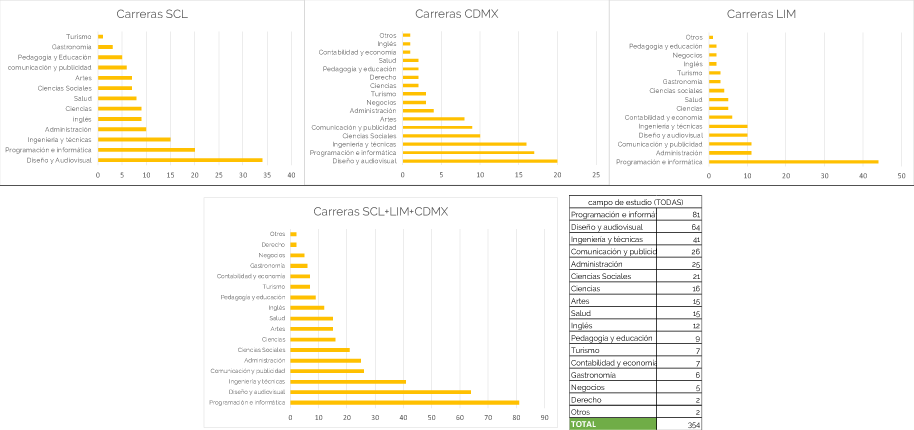
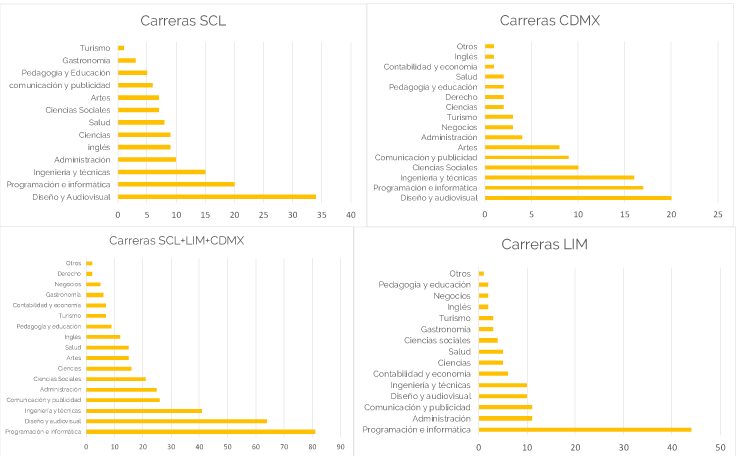
Updates assets/areas-de-estudio-sel-20172.png
Auto commit by GitBook Editor

diff --git a/chapter1.md b/chapter1.md
@@ -6,7 +6,9 @@ Aquí encontrarás la información que hemos obtenido más recientemente. Si tie
 
 **INFORMACIÓN OBTENIDA DE POSTULANTES ADMITIDAS AL BOOTCAMP 20172 SCL, CDMX, LIM.**
 
-![](/assets/resumen-perfil-alumnas.png)Como podrás notar, a grandes rasgos y en resumen, nuestras alumnas tienen entre los 27 años, han accedido a educación superior pero esta no les ha permitido acceder a buenos trabajos. Nuestras alumnas llegan a Laboratoria en busca de un cambio para su vida profesional. Esto puede servirte como base para entender al público al cual nos dirigimos. ![](/assets/areas-de-estudio-sel-20172.png)
+![](/assets/resumen-perfil-alumnas.png)Como podrás notar, a grandes rasgos y en resumen, nuestras alumnas tienen entre los 27 años, han accedido a educación superior pero esta no les ha permitido acceder a buenos trabajos. Nuestras alumnas llegan a Laboratoria en busca de un cambio para su vida profesional. Esto puede servirte como base para entender al público al cual nos dirigimos.
+
+![](/assets/areas-de-estudio-sel-20172.png)
 
 A continuación podrás ver el uso de Redes Sociales y Medios Tradicionales de Comunicación. Esto te servirá como guía para realizar acciones locales para atraer a las mejores postulantes.![](/assets/rrss-y-medios-de-comPORsede.png)[En este link](https://docs.google.com/spreadsheets/d/1XyFMxHlN2lxi5lXSSx69nLUFcuupsQWaJbTrqAa-gC8/edit#gid=0) podrás encontrar información sobre: radios, periódicos, canales de televisión e influencers que alumnas de cada sede siguen. Puede servirte como guía para armar tu estrategia de prensa.
 
